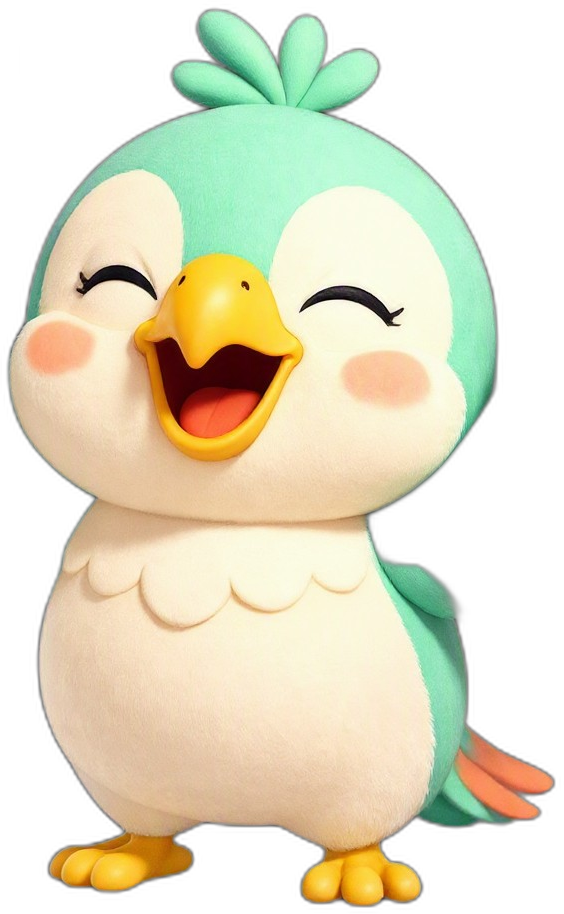
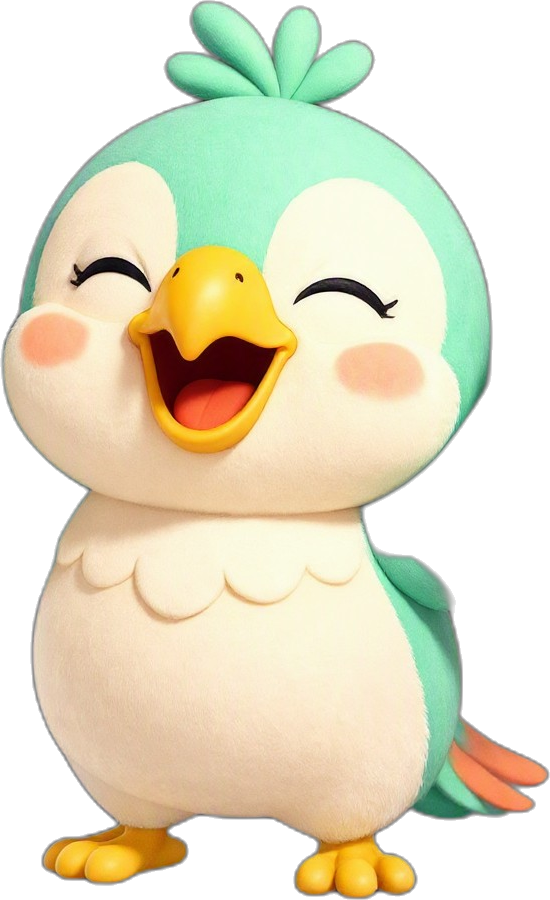
fix(mascota): quitar el velo semitransparente que se veia como un recuadro sobre fondo oscuro

diff --git a/docs/contexto/checklist.md b/docs/contexto/checklist.md
@@ -15,13 +15,13 @@ Leyenda de prioridad: **P0** rompe o bloquea · **P1** siguiente entrega · **P2
 | M1 | Currículo + motor de lecciones (choose/bank/type, explicación en español) | ✅ operativo | `lib/curriculum/`, `components/lesson/` |
 | M2 | Repaso espaciado (SRS SM-2) | ✅ operativo | `lib/srs.ts`, `app/app/repaso` |
 | M3 | Progreso y gamificación (XP, gemas, racha, objetivo diario, retos, premios, niveles, logros) | ✅ v1 | `lib/progress.ts`, `lib/gamification.ts`, `app/app/retos` |
-| M4 | Tutor IA conversacional (Gemini free) | ✅ chat libre | `app/app/tutor`, `app/api/tutor` |
+| M4 | Tutor IA conversacional | 🔀 **unificado en M5** (Practicar → Charla libre); pantalla y endpoint retirados | — |
 | M5 | **Entrenador de conversación con corrección** | ✅ v1 | `app/app/practica`, `app/api/coach`, `lib/coach.ts` |
-| M6 | Escucha activa con huecos | ✅ v1 (piezas propias) | `app/app/escucha`, `lib/listening.ts` |
-| M6b | **Canciones reales** (vídeo de YouTube + letra) | ✅ v2 (dominio público + letras del usuario); pendiente fuente con licencia | `app/app/canciones`, `lib/songs.ts`, `components/song/` |
+| M6 | Escucha activa con huecos | ✅ v1 (piezas propias de Parlo) | `app/app/escucha`, `lib/listening.ts` |
+| M6b | Canciones con letra | ⛔ **RETIRADO 2026-07-26**: sin licencia no se pueden servir letras de catálogo actual a los usuarios, y el repertorio libre (Jamendo/dominio público) no convence. Queda entero en el historial de git |
 | M7 | Test de nivel inicial (colocación CEFR) | ✅ v1 | `app/app/test`, `lib/placement.ts` |
 | M8 | Pronunciación (grabar y comparar) | ⛔ idea | — |
-| M9 | **Lector de documentos propios con voz** (nuevo) | ⛔ por hacer | — |
+| M9 | **Lector de documentos propios con voz** | ✅ v1 **bidireccional** | `app/app/leer`, `lib/reader/*`, `app/api/translate` |
 
 ---
 
@@ -82,7 +82,7 @@ Harness de capturas (dev): `shot.mjs` (Chrome headless por CDP) entra con usuari
 ### P1 — Para que el ciclo de producto cierre
 4. ~~M7 · Test de nivel inicial~~ ✅ 12 ítems (4 por nivel), coloca en A1/A2/B1 y abre la ruta desde ahí.
 5. ~~M5 · Entrenador de conversación con corrección~~ ✅ escenarios + puerta de corrección con ejemplos en español.
-6. **M9 v1 · Lector de documentos con voz** (§7): subir TXT/PDF, leerlo, escuchar frase a frase y palabra a palabra.
+6. ~~M9 v1 · Lector de documentos con voz~~ ✅ hecho, y además **bidireccional** (§7).
 7. **Verificación de correo** (`sendEmailVerification`): hoy cualquiera se registra con un correo ajeno.
 8. **Recordatorio diario** de la racha (Web Push o recordatorio local de la PWA).
 
@@ -147,9 +147,18 @@ Riesgos: latencia de dos llamadas por turno (mitigación: una sola llamada que d
 - **Aprender leyendo**: tocar una palabra → significado + botón «añadir al repaso» (entra al SRS con la misma clave `vocab.en`); el tiempo de lectura suma XP y alimenta los retos.
 - **Aviso al usuario**: la traducción envía fragmentos del documento a Gemini (el resto es local). Debe decirse en la UI.
 
-Fases: **v1** subir TXT/PDF + texto completo + reproducir palabra/frase + reproducción continua con resaltado; **v2** EPUB/DOCX, traducción en voz cacheada, palabras al SRS, buscador interno.
+**Estado (hecho 2026-07-26)**: `/app/leer` funcionando. Subida de TXT/MD/CSV y **PDF** (pdf.js con carga diferida; detecta PDF escaneado y avisa). Documento en **IndexedDB del dispositivo** (`lib/reader/store.ts`), nunca sale del navegador. Segmentación con **`Intl.Segmenter`** (frases + palabras) e índice invertido para buscar dentro del texto. Altavoz por frase y **lectura continua** con resaltado y botón de parar. **Traducción por frase** con `gemini-flash-lite-latest` cacheada por documento en localStorage. **Clic en palabra** → traducción en contexto, explicación en español, ejemplo, y **«añadir al repaso»** (acción `addCard` del store). Guarda la última frase leída para retomar.
+**Bidireccional**: `lib/reader/detect.ts` detecta el idioma contando palabras funcionales (sin IA ni dependencias). Si el documento está en español, la voz habla español y la traducción/significados van **al inglés**; la cabecera muestra el idioma detectado. Checks: `lib/reader/segment.check.ts` y `lib/reader/detect.check.ts`.
+Pendiente v2: EPUB/DOCX y TTS de servidor cacheado.
 
 Riesgos: calidad de voz desigual por dispositivo (mitigación: selector de voz + aviso); PDFs escaneados sin texto (mitigación: detectarlo y avisar — el OCR queda fuera del coste cero); documentos largos (mitigación: paginar por capítulos/bloques y no cargar todo en memoria).
+
+## 7b. Navegación y sesión (2026-07-26)
+- **Menú**: `Ruta · Leer · Practicar · Retos · Perfil` (5 pestañas). El Tutor suelto se retiró: lo cubre Practicar → Charla libre, que además corrige antes de seguir.
+- **Lateral plegable** a solo iconos (`useSidebar`, preferencia recordada) con **tooltips propios** desde i18n; tema e idioma pasan a modo icono (`LangToggle` tiene prop `iconOnly`).
+- **Sesión**: con cookie de presencia, `/`, `/login` y `/registro` redirigen a `/app`; sin ella, `/app/*` va a `/login`. `app/not-found.tsx` (server) manda a `/app` o a la landing según haya sesión.
+- **Volver**: `BackButton` (admite `href` o `onClick`) en todas las subvistas: conversación, escucha y lector.
+- Barra móvil: el pill activo lleva `0.5rem` de aire abajo más el área segura.
 
 ## 8. Decisiones de IA y voz (verificado 2026-07-26)
 
